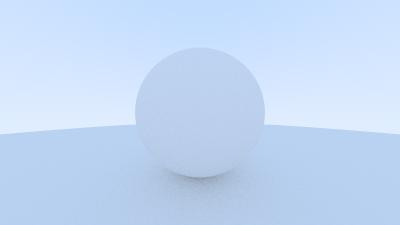
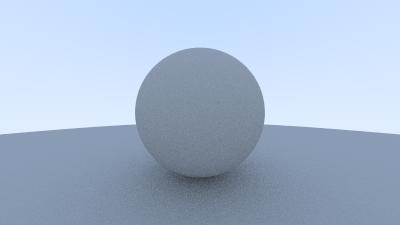
Added material interface

diff --git a/RayTracing/Sphere.cs b/RayTracing/Sphere.cs
@@ -10,10 +10,12 @@ public class Sphere : Hittable
 {
     private Point3 _center;
     private double _radius;
-    public Sphere(Point3 center, double radius)
+    private Material _material;
+    public Sphere(Point3 center, double radius, Material material)
     {
         _center = center;
         _radius = Math.Max(radius, 0);
+        _material = material;
     }
     public override bool Hit(ref Ray ray, Interval rayT, ref HitRecord hitRecord)
     {
@@ -37,6 +39,7 @@ public class Sphere : Hittable
         hitRecord.P = ray.At(hitRecord.T);
         Vec3 outwardNormal = (hitRecord.P - _center) / _radius;
         hitRecord.SetFaceNormal(ray, outwardNormal);
+        hitRecord.Material = _material;
         return true;
     }
 }

diff --git a/RayTracing/Material.cs b/RayTracing/Material.cs
@@ -1,0 +1,21 @@
+using System;
+using System.Collections.Generic;
+using System.Linq;
+using System.Text;
+using System.Threading.Tasks;
+
+namespace RayTracing;
+using Color = RayTracing.Vec3;
+
+public interface IMaterial
+{
+    public bool Scatter(Ray rayIn, HitRecord record, ref Color attenuation, ref Ray scattered);
+
+}
+public class Material: IMaterial
+{
+    public virtual bool Scatter(Ray rayIn, HitRecord record, ref Color attenuation, ref Ray scattered)
+    {
+        return true;
+    }
+}

diff --git a/RayTracing/ColorUtils.cs b/RayTracing/ColorUtils.cs
@@ -64,7 +64,7 @@ public static class ColorUtils
                 span[i * width + j].B = (byte)ppmImage[i * width + j].B;
             }
         }
-        string imageName = $"../../../ImagesJpeg/Image6.jpeg";
+        string imageName = $"../../../ImagesJpeg/Image1.jpeg";
         ImSh.Formats.Jpeg.JpegEncoder encoder = new();
         using FileStream fileStream = new FileStream(imageName, FileMode.OpenOrCreate, FileAccess.Write);
         encoder.Encode(image, fileStream);

diff --git a/RayTracing/Camera.cs b/RayTracing/Camera.cs
@@ -83,7 +83,7 @@ public class Camera
         if (world.Hit(ref ray, new Interval(0.001), ref record))
         {
             Vec3 direction = record.Normal + Vec3.RandomUnitVector();
-            return 0.07 * RayColor(new Ray(record.P, direction), depth - 1, world);
+            return 0.5 * RayColor(new Ray(record.P, direction), depth - 1, world);
         }
         Vec3 unitDirection = Vec3.UnitVector(ray.Direction);
         var a = 0.5 * (unitDirection.y + 1.0);

diff --git a/RayTracing/Program.cs b/RayTracing/Program.cs
@@ -15,8 +15,8 @@ internal class Program
     {
 
         HittableList world = new HittableList();
-        world.Add(new Sphere(new Point3(0, 0, -1), 0.5));
-        world.Add(new Sphere(new Point3(0, -100.5, -1), 100));
+        world.Add(new Sphere(new Point3(0, 0, -1), 0.5,new Material()));
+        world.Add(new Sphere(new Point3(0, -100.5, -1), 100, new Material()));
         Camera camera = new Camera();
 
         camera.AspectRatio = 16.0 / 9.0;

diff --git a/RayTracing/Hittable.cs b/RayTracing/Hittable.cs
@@ -10,6 +10,7 @@ public class HitRecord
 {
     public Point3 P;
     public Vec3 Normal = new Vec3();
+    public Material Material = new Material();
     public double T;
     public bool FrontFace;
 
